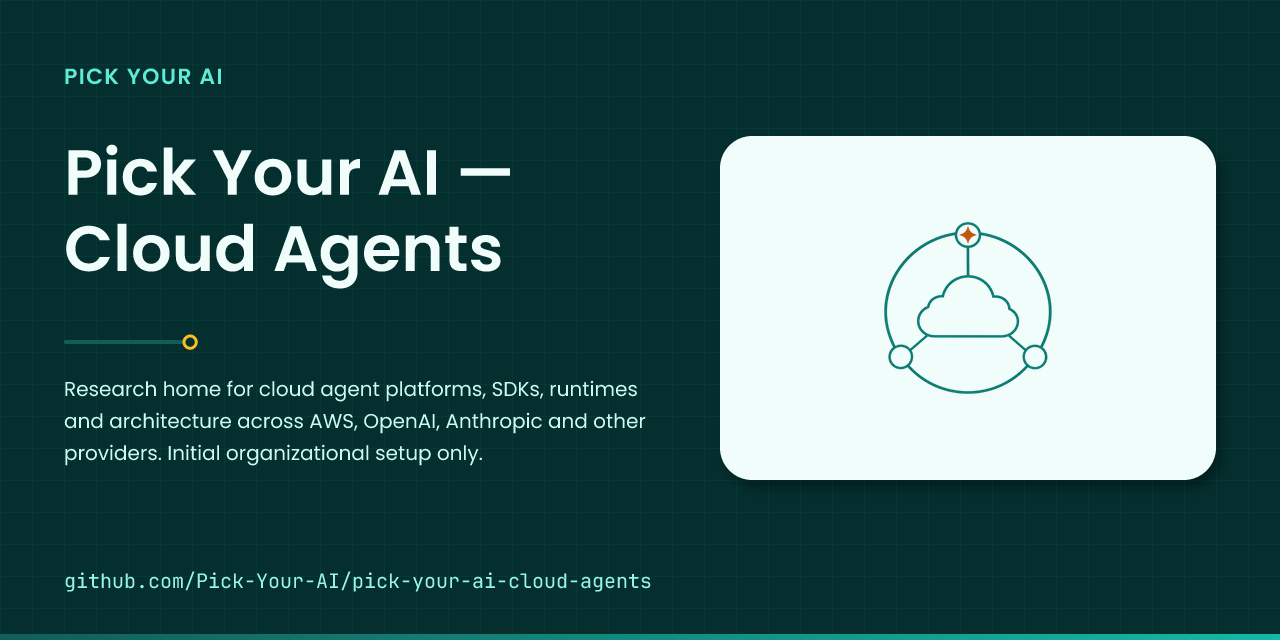
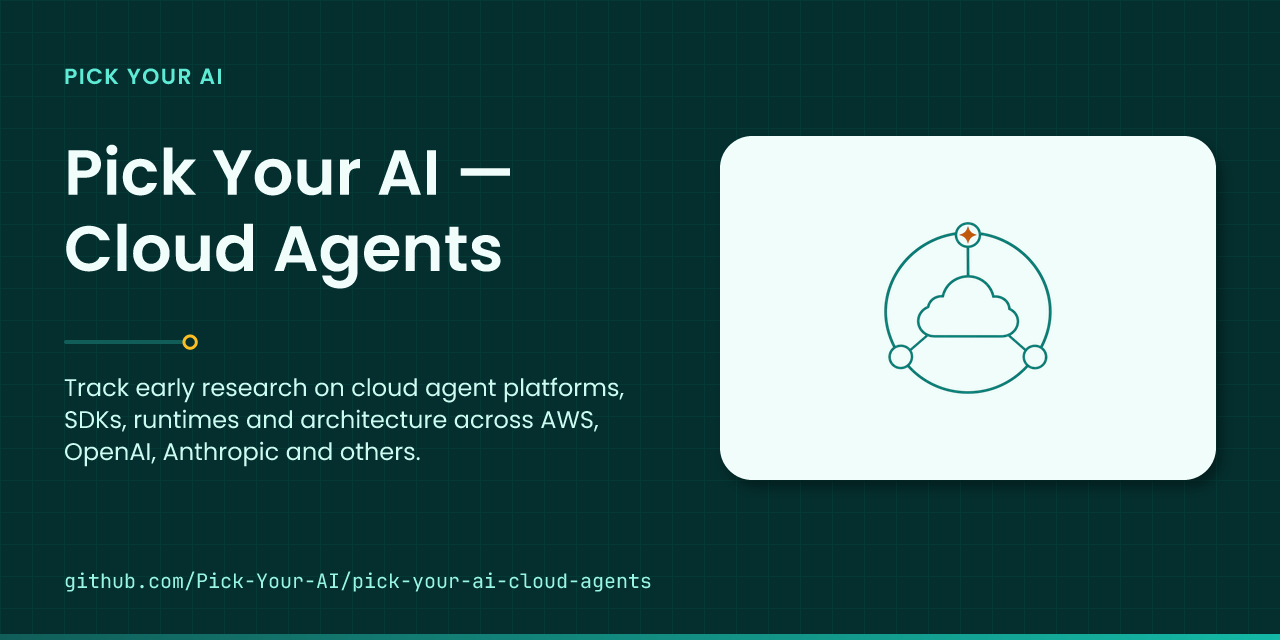
docs: align tagline and card with the new About description
The About description is now "Track early research on cloud agent platforms, SDKs, runtimes and architecture
across AWS, OpenAI, Anthropic and others." Refreshes the README tagline block, the card and the social preview.

Changed region(s): [[0.0312, 0.5938, 0.5, 0.7188]]

diff --git a/README.md b/README.md
@@ -17,7 +17,7 @@
 <!-- showcase:badges:end -->
 
 <!-- showcase:tagline:start -->
-**Research home for cloud agent platforms, SDKs, runtimes and architecture across AWS, OpenAI, Anthropic and other providers. Initial organizational setup only.**
+**Track early research on cloud agent platforms, SDKs, runtimes and architecture across AWS, OpenAI, Anthropic and others.**
 <!-- showcase:tagline:end -->
 
 </div>
